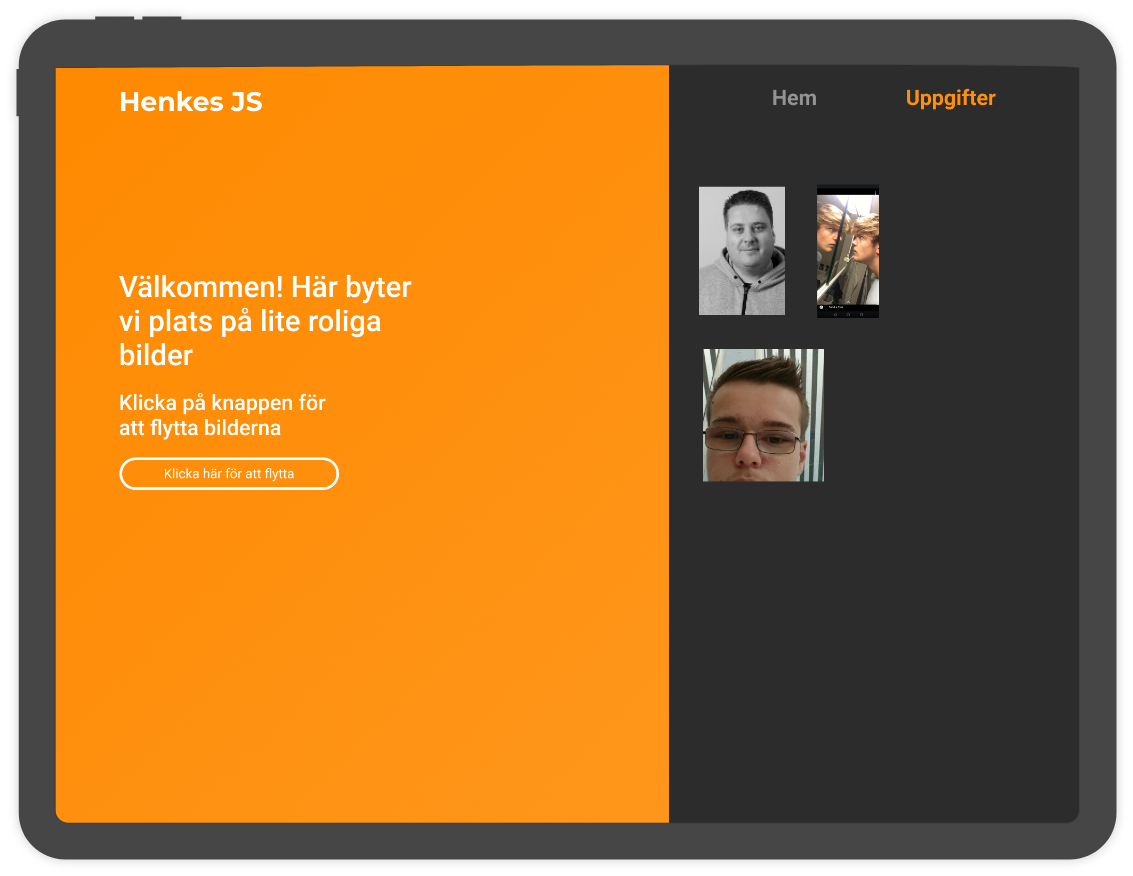
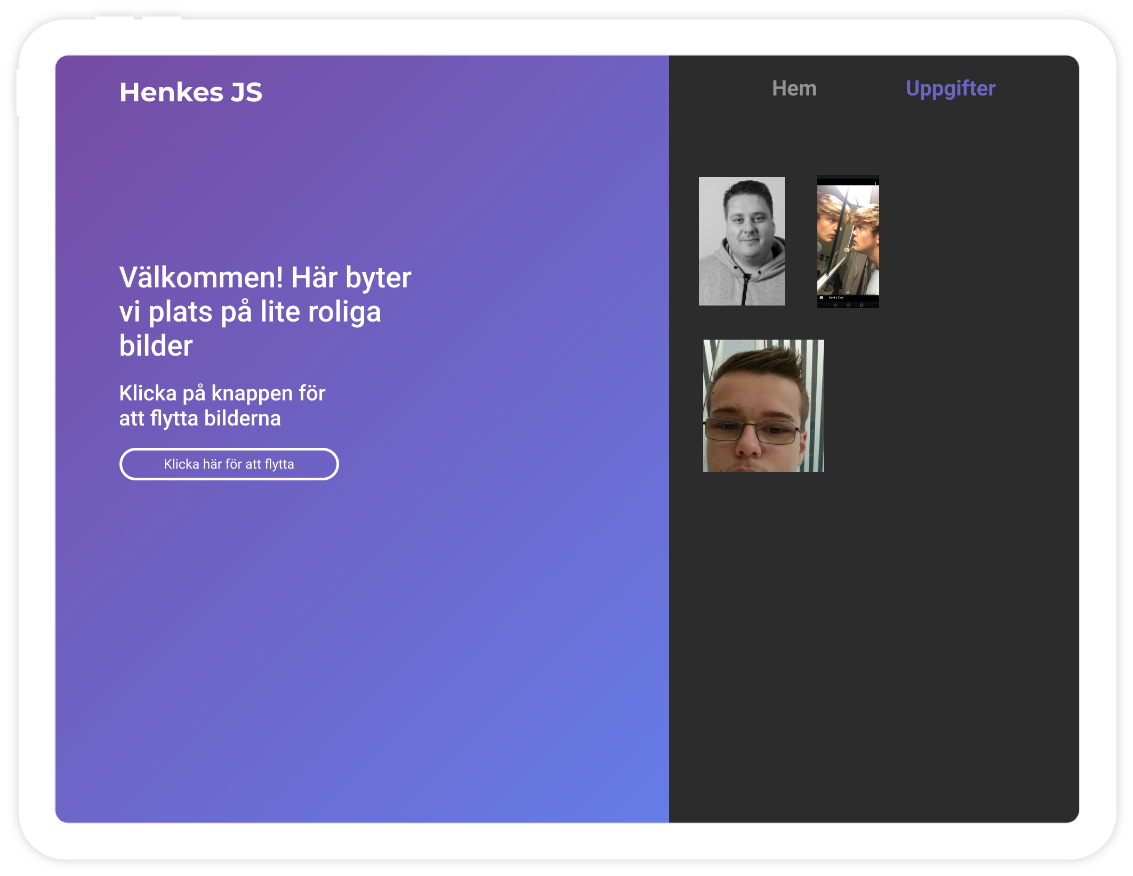
Updated 3/3 2020

diff --git a/CSS/projects.css b/CSS/projects.css
@@ -107,7 +107,6 @@ a:active {
     margin-top: 150px;
     height: 600px;
     width: 100%;
-    /* background-color: rgb(255, 100, 100);  */
 }
 
 .headerTitle {
@@ -162,10 +161,9 @@ a:active {
     white-space: nowrap;
     grid-area:btn;
     margin: 0;
-    border-radius: 30px;
-    border: 3px solid var(--Background);
+    border-radius: 5px;
+    border: 3px solid var(--contrastColor);
     background-color: var(--contrastColor);
-    /* position: absolute; */
     padding: 15px 22px;
     transition: 0.2s ease-out;
     color: #FFFFFF;
@@ -175,8 +173,6 @@ a:active {
 
 .headerButton:hover {
     background-color: var(--Background);
-    color: var(--contrastColor);
-    border: 3px solid var(--contrastColor);
 }
 
 .project1bg {
@@ -190,6 +186,7 @@ a:active {
     ". project1img . project1text .";
     padding-top: 200px;
     padding-bottom: 100px;
+    transition: 0.2s ease;
 }
 
 .project1bg::after {
@@ -226,11 +223,16 @@ a:active {
     font-size: 1.3rem;
     opacity: 0.89;
     padding-bottom: 50px;
+    height: max-content;
 }
 
 .project1cta {
+    margin-top: 50px;
     color: #FFFFFF;
     padding: 15px 25px;
+    width: min-content;
+    white-space: nowrap;
+    display: block;
     border: 2px solid #FFFFFF;
     border-radius: 4px;
     cursor: pointer;
@@ -285,6 +287,9 @@ a:active {
     border-radius: 4px;
     cursor: pointer;
     transition: 0.2s ease;
+    width: min-content;
+    white-space: nowrap;
+    display: block;
 }
 
 .project2cta:hover {
@@ -348,6 +353,9 @@ a:active {
     border-radius: 4px;
     cursor: pointer;
     transition: 0.2s ease;
+    width: min-content;
+    white-space: nowrap;
+    display: block;
 }
 
 .project3cta:hover {
@@ -398,6 +406,9 @@ a:active {
     border-radius: 4px;
     cursor: pointer;
     transition: 0.2s ease;
+    width: min-content;
+    white-space: nowrap;
+    display: block;
 }
 
 .project4cta:hover {
@@ -406,7 +417,7 @@ a:active {
 }
 
 .project5bg {
-    background-color: rgb(221, 133, 33);
+    background-color: #6E62C2;
     width: 100%;
     position: relative;
     display: grid;
@@ -461,6 +472,9 @@ a:active {
     border-radius: 4px;
     cursor: pointer;
     transition: 0.2s ease;
+    width: min-content;
+    white-space: nowrap;
+    display: block;
 }
 
 .project5cta:hover {
@@ -483,6 +497,10 @@ a:active {
         margin-top: 75px;
     }
 
+    .project1cta {
+        margin: auto;
+    }
+
     .project2bg {
         grid-template-columns: auto 80% auto;
         grid-template-rows: min-content min-content;
@@ -495,6 +513,10 @@ a:active {
 
     .project2img {
         margin-top: 75px;
+    }
+
+    .project2cta {
+        margin: auto;
     }
 
     .project3bg {
@@ -511,6 +533,10 @@ a:active {
         margin-top: 75px;
     }
 
+    .project3cta {
+        margin: auto;
+    }
+
     .project4bg {
         grid-template-columns: auto 80% auto;
         grid-template-rows: min-content min-content;
@@ -525,6 +551,10 @@ a:active {
         margin-top: 75px;
     }
 
+    .project4cta {
+        margin: auto;
+    }
+
     .project5bg {
         grid-template-columns: auto 80% auto;
         grid-template-rows: min-content min-content;
@@ -537,6 +567,10 @@ a:active {
 
     .project5img {
         margin-top: 75px;
+    }
+
+    .project5cta {
+        margin: auto;
     }
 }
 
@@ -613,7 +647,7 @@ a:active {
         text-align: center;
         height: 40px;
         top: 10px;
-        position: absolute;
+        width: 100%;
     }
 
     .project2img {

diff --git a/projects/index.html b/projects/index.html
@@ -77,7 +77,7 @@
     <div class="project5bg">
         <img class="project5img" src="../img/project5.png">
         <div class="project5Text">
-            <h1 class="project5Title">Flytta på bilder</h1>
+            <h1 class="project5Title">Flytta bilder</h1>
             <p class="project5Desc">Den här sidan flyttar på bilder om användaren klickar på en knapp.
                 Lorem ipsum dolor sit amet, consectetur adipiscing elit, sed do eiusmod tempor incididunt ut labore et dolore magna aliqua.
             </p>
